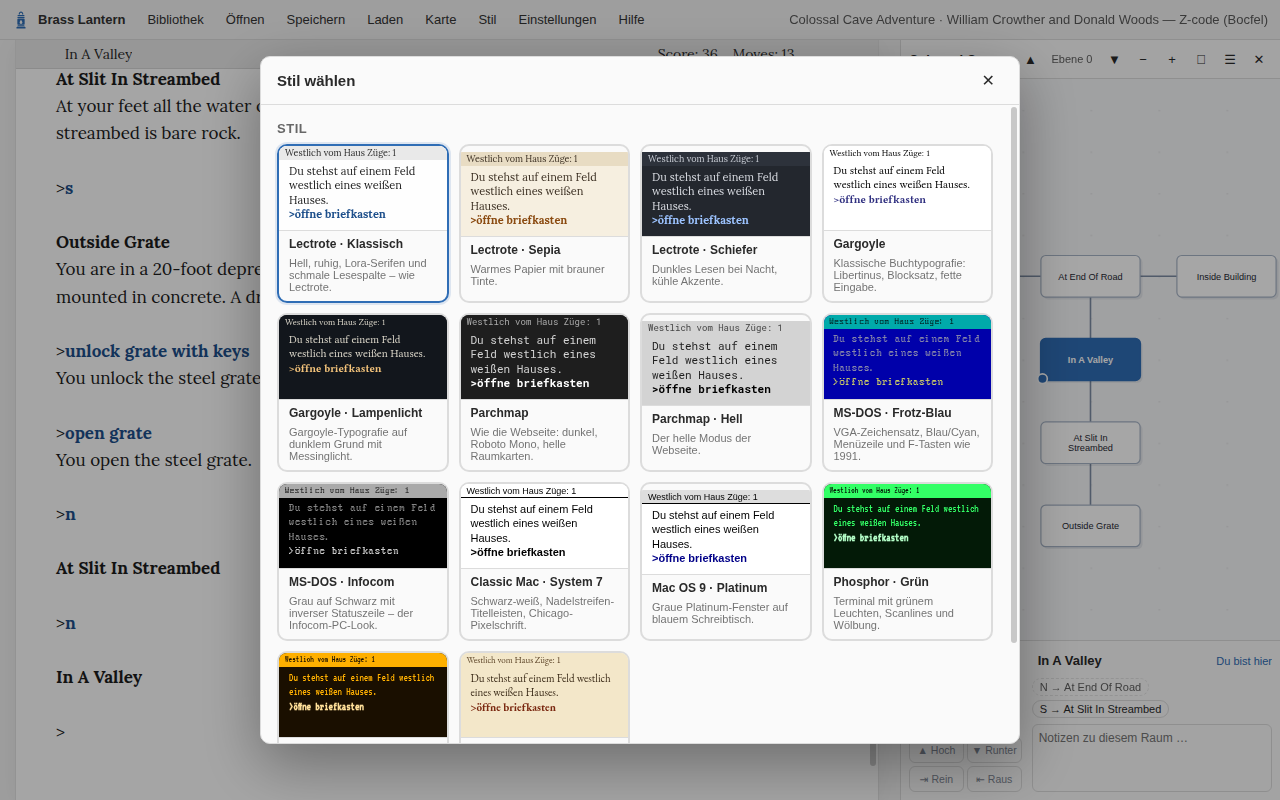
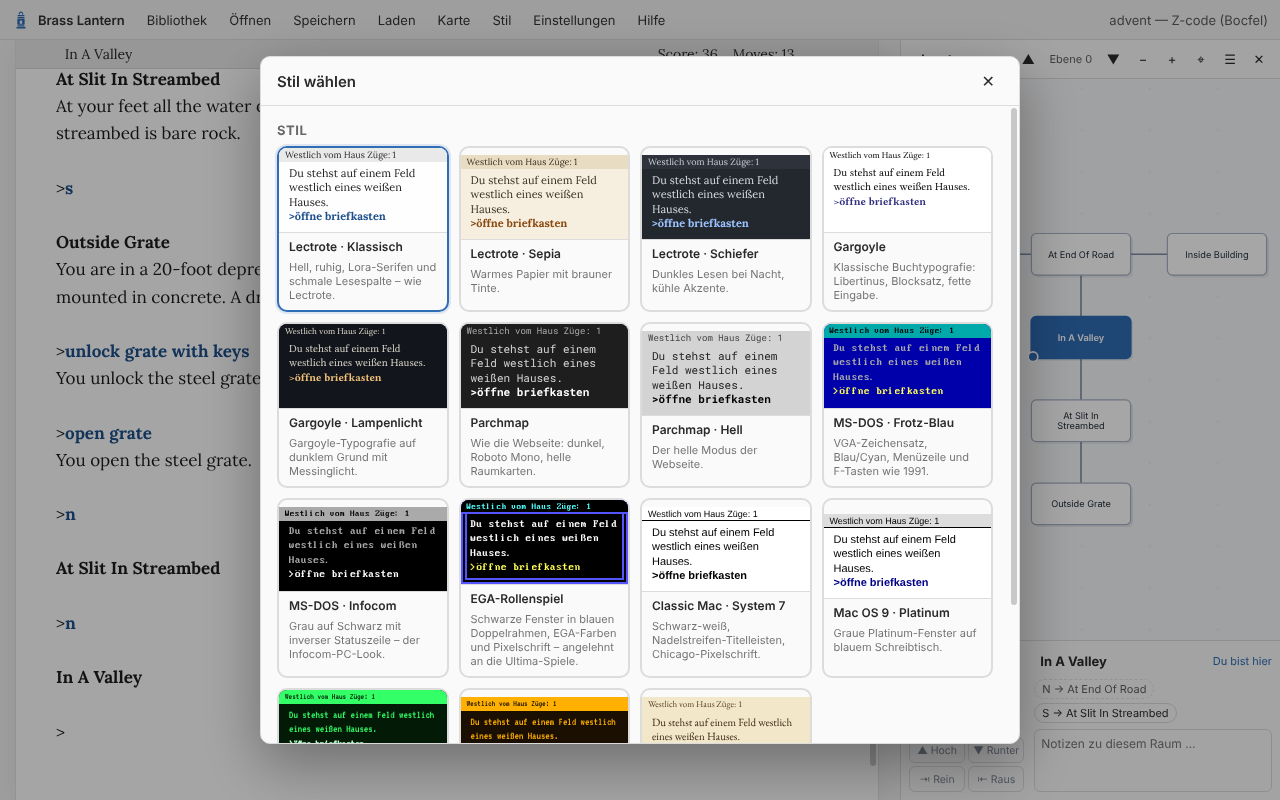
Add the EGA role-playing style, inspired by the Ultima games (1.3.0)
Black windows in blue double frames with corner rivets, title plates on
the frame, a framed map side window, EGA palette and VGA pixel font.

Claude-Session: https://claude.ai/code/session_01AJUxLsrNY1J7Soayh9AwsN

diff --git a/src/renderer/css/themes.css b/src/renderer/css/themes.css
@@ -969,3 +969,241 @@ body[data-theme='parchment'] .win-grid { font-style: italic; }
 body[data-theme='parchment'] .Style_header { font-size: 1.5em; font-variant: small-caps; letter-spacing: .03em; }
 body[data-theme='parchment'] .Style_subheader { font-variant: small-caps; letter-spacing: .04em; font-size: 1.08em; }
 body[data-theme='parchment'] .room-box { rx: 3px; }
+
+/* ---------- EGA-Rollenspiel (inspired by the 80s Ultima games) ----------
+   Black windows framed by blue double lines with round rivets at the
+   corners, title plates sitting on the frame, 16-colour EGA palette and
+   the VGA pixel font. */
+body[data-theme='ega-rpg'] {
+  --ega-frame: #5555ff;
+  --ega-frame-dark: #0000aa;
+  --bg: #000000;
+  --fg: #ffffff;
+  --muted: #aaaaaa;
+  --accent: #ffff55;
+  --accent-fg: #000;
+  --accent-soft: rgba(85, 85, 255, .25);
+  --input-fg: #ffff55;
+  --input-weight: normal;
+  --link: #55ffff;
+  --header-fg: #ffff55;
+  --subheader-fg: #55ffff;
+  --alert-fg: #ff5555;
+  --note-fg: #55ff55;
+  --status-bg: #000000;
+  --status-fg: #55ffff;
+  --status-border: 2px solid var(--ega-frame);
+  --status-rev-bg: #0000aa;
+  --status-rev-fg: #ffffff;
+  --chrome-bg: #000000;
+  --chrome-fg: #aaaaaa;
+  --chrome-border: #5555ff;
+  --chrome-border-w: 2px;
+  --chrome-hover: #0000aa;
+  --desk-bg: #000000;
+  --panel-bg: #000000;
+  --panel-fg: #aaaaaa;
+  --panel-border-w: 0;
+  --map-bg: #000000;
+  --map-grid: rgba(85, 85, 255, .35);
+  --map-line: #aaaaaa;
+  --map-muted: #55ffff;
+  --room-bg: #000000;
+  --room-fg: #ffffff;
+  --room-border: #5555ff;
+  --room-shadow: #0000aa;
+  --room-here-bg: #aa0000;
+  --room-here-fg: #ffff55;
+  --room-here-border: #ffff55;
+  --scroll-thumb: #5555ff;
+  --scroll-track: #000;
+  --scroll-w: 8px;
+  --scroll-radius: 0;
+  --scroll-thumb-border: 0;
+  --input-bg: #000;
+  --caret: #ffff55;
+  --selection: #0000aa;
+  --overlay-bg: rgba(0, 0, 0, .55);
+  --dlg-bg: #000;
+  --dlg-fg: #aaaaaa;
+  --dlg-border: 0;
+  --dlg-shadow: none;
+  --card-bg: #000;
+  --card-fg: #aaaaaa;
+  --hero-bg: #000;
+  --hero-fg: #ffffff;
+  --sugg-bg: #000;
+  --sugg-fg: #55ffff;
+  --toast-bg: #0000aa;
+  --toast-fg: #ffff55;
+  --btn-bg: #000;
+  --btn-fg: #ffffff;
+  --splitter-bg: #000;
+  --font-body: 'Lantern VGA', monospace;
+  --font-mono: 'Lantern VGA', monospace;
+  --font-ui: 'Lantern VGA', monospace;
+  --font-title: 'Lantern VGA', monospace;
+  --title-weight: normal;
+  --font-size: 16px;
+  --status-size: 16px;
+  --ui-size: 16px;
+  --line-height: 1.25;
+  --grid-line-height: 1.25;
+  --buf-pad-x: 18px;
+  --buf-pad-y: 12px;
+  --grid-pad-x: 18px;
+  --grid-pad-y: 4px;
+  --btn-radius: 0;
+  --dlg-radius: 0;
+  --room-radius: 0;
+  --cover-radius: 0;
+  --topbar-h: 28px;
+  --map-line-w: 2;
+  --room-font-size: 16px;
+  --h3-transform: none;
+  --play-pad: 14px;
+  /* double blue line: 2px line, 2px black gap, 2px line */
+  --ega-border: inset 0 0 0 2px var(--ega-frame), inset 0 0 0 4px #000, inset 0 0 0 6px var(--ega-frame);
+  -webkit-font-smoothing: none;
+  font-smooth: never;
+  background: #000;
+}
+/* round rivets on the four corners of every framed window */
+body[data-theme='ega-rpg'] {
+  --ega-rivets:
+    radial-gradient(circle at 3px 3px, #ffffff 0 1px, #aaaaff 1px 2px, var(--ega-frame) 2px 4px, #000 4px 5px, transparent 5px) left top / 14px 14px no-repeat,
+    radial-gradient(circle at 11px 3px, #ffffff 0 1px, #aaaaff 1px 2px, var(--ega-frame) 2px 4px, #000 4px 5px, transparent 5px) right top / 14px 14px no-repeat,
+    radial-gradient(circle at 3px 11px, #ffffff 0 1px, #aaaaff 1px 2px, var(--ega-frame) 2px 4px, #000 4px 5px, transparent 5px) left bottom / 14px 14px no-repeat,
+    radial-gradient(circle at 11px 11px, #ffffff 0 1px, #aaaaff 1px 2px, var(--ega-frame) 2px 4px, #000 4px 5px, transparent 5px) right bottom / 14px 14px no-repeat;
+}
+
+/* top bar: command line like the RPG's command list */
+body[data-theme='ega-rpg'] #topbar { border-bottom: 0; box-shadow: 0 2px 0 var(--ega-frame), 0 4px 0 #000, 0 6px 0 var(--ega-frame); margin-bottom: 6px; padding: 0 14px; gap: 20px; }
+body[data-theme='ega-rpg'] .brand { font-weight: normal; color: #ffff55; }
+body[data-theme='ega-rpg'] .brand-icon { background: #ffff55; width: 16px; height: 16px; image-rendering: pixelated; }
+body[data-theme='ega-rpg'] .topnav { gap: 6px; }
+body[data-theme='ega-rpg'] .topnav button { padding: 0 6px; height: 20px; line-height: 20px; color: #aaaaaa; }
+body[data-theme='ega-rpg'] .topnav button u { color: #ffffff; }
+body[data-theme='ega-rpg'] .topnav button:hover { background: #0000aa; color: #ffffff; }
+body[data-theme='ega-rpg'] .topnav button:hover u { color: #ffff55; }
+body[data-theme='ega-rpg'] .topbar-game { color: #55ffff; opacity: 1; }
+
+/* the story window */
+body[data-theme='ega-rpg'] #play-frame { box-shadow: none; padding: 6px; position: relative; }
+body[data-theme='ega-rpg'] #play-frame::after {
+  content: '';
+  position: absolute; inset: 0;
+  pointer-events: none;
+  box-shadow: var(--ega-border);
+  background: var(--ega-rivets);
+  z-index: 4;
+}
+body[data-theme='ega-rpg'] .frame-title {
+  display: flex;
+  justify-content: center;
+  position: absolute; left: 0; right: 0; top: -2px;
+  height: 0;
+  z-index: 5;
+  pointer-events: none;
+}
+body[data-theme='ega-rpg'] .frame-label {
+  background: #000;
+  color: #ffff55;
+  font-family: var(--font-ui);
+  font-size: 16px;
+  line-height: 16px;
+  height: 16px;
+  padding: 0 8px;
+  transform: translateY(-5px);
+  white-space: nowrap;
+  max-width: 70%;
+  overflow: hidden;
+  text-overflow: ellipsis;
+}
+body[data-theme='ega-rpg'] .frame-label:not(:empty)::before { content: '\25C4 '; color: var(--ega-frame); }
+body[data-theme='ega-rpg'] .frame-label:not(:empty)::after { content: ' \25BA'; color: var(--ega-frame); }
+body[data-theme='ega-rpg'] .frame-close { display: none; }
+
+/* text styles in EGA colours, no italics or bold in a pixel font */
+body[data-theme='ega-rpg'] .Style_header, body[data-theme='ega-rpg'] .Style_subheader, body[data-theme='ega-rpg'] .Style_alert { font-weight: normal; font-size: 1em; }
+body[data-theme='ega-rpg'] .Style_header { color: #ffff55; }
+body[data-theme='ega-rpg'] .Style_subheader { color: #55ffff; }
+body[data-theme='ega-rpg'] .Style_emphasized { font-style: normal; color: #55ffff; }
+body[data-theme='ega-rpg'] .Style_note { font-style: normal; color: #55ff55; }
+body[data-theme='ega-rpg'] .Style_input { color: #ffff55; }
+body[data-theme='ega-rpg'] .char-hint { height: 3px; width: 8px; vertical-align: baseline; opacity: 1; }
+body[data-theme='ega-rpg'] .line-input { caret-shape: block; }
+body[data-theme='ega-rpg'] .win-grid { box-shadow: 0 2px 0 #000, 0 4px 0 var(--ega-frame); }
+body[data-theme='ega-rpg'] #suggest .sugg { border-radius: 0; border-color: var(--ega-frame); }
+body[data-theme='ega-rpg'] #suggest .sugg.first { border-color: #ffff55; color: #ffff55; }
+
+/* map: a framed side window like the party/status panel */
+body[data-theme='ega-rpg'] #mappanel {
+  border: 0;
+  margin: 14px 14px 14px 0;
+  padding: 10px;
+  box-shadow: var(--ega-border);
+  background: var(--ega-rivets), #000;
+  min-width: 260px;
+  height: auto;
+  min-height: 0;
+  overflow: hidden;
+}
+body.map-left[data-theme='ega-rpg'] #mappanel { margin: 14px 0 14px 14px; }
+body[data-theme='ega-rpg'] #splitter { width: 8px; }
+body[data-theme='ega-rpg'] .map-toolbar { background: transparent; border-bottom: 2px solid var(--ega-frame); }
+body[data-theme='ega-rpg'] .map-title { font-weight: normal; color: #ffff55; }
+body[data-theme='ega-rpg'] .map-btn { border-radius: 0; }
+body[data-theme='ega-rpg'] .map-btn:hover, body[data-theme='ega-rpg'] .compass-grid button:hover, body[data-theme='ega-rpg'] .compass-extra button:hover { background: #0000aa; color: #fff; border-color: var(--ega-frame); }
+body[data-theme='ega-rpg'] .map-bottom { border-top: 2px solid var(--ega-frame); }
+body[data-theme='ega-rpg'] .compass-grid button, body[data-theme='ega-rpg'] .compass-extra button { border-radius: 0; font-size: 16px; border-color: #0000aa; }
+body[data-theme='ega-rpg'] .compass-grid button.known, body[data-theme='ega-rpg'] .compass-extra button.known { background: #0000aa; color: #ffffff; font-weight: normal; border-color: var(--ega-frame); }
+body[data-theme='ega-rpg'] .room-name { font-size: 16px; }
+body[data-theme='ega-rpg'] .room-box { stroke-width: 2; }
+body[data-theme='ega-rpg'] .map-room.here .room-box { stroke-width: 2; }
+body[data-theme='ega-rpg'] .map-edge-label, body[data-theme='ega-rpg'] .map-stub-label, body[data-theme='ega-rpg'] .room-marks { font-size: 16px; }
+
+/* dialogs, menus and the game-over box get the same frame and a title plate */
+body[data-theme='ega-rpg'] #dialog, body[data-theme='ega-rpg'] .map-menu, body[data-theme='ega-rpg'] .map-list, body[data-theme='ega-rpg'] #gameover {
+  border: 0;
+  border-radius: 0;
+  box-shadow: var(--ega-border);
+  background: var(--ega-rivets), #000;
+  padding: 8px;
+  font-size: 16px;
+}
+body[data-theme='ega-rpg'] .dlg-head { border-bottom: 2px solid var(--ega-frame); justify-content: center; position: relative; }
+body[data-theme='ega-rpg'] .dlg-head h2 { flex: none; font-size: 16px; color: #ffff55; }
+body[data-theme='ega-rpg'] .dlg-head h2::before { content: '\25C4 '; color: var(--ega-frame); }
+body[data-theme='ega-rpg'] .dlg-head h2::after { content: ' \25BA'; color: var(--ega-frame); }
+body[data-theme='ega-rpg'] .dlg-close { position: absolute; right: 12px; color: #aaaaaa; }
+body[data-theme='ega-rpg'] .dlg-body { font-size: 16px; }
+body[data-theme='ega-rpg'] .dlg-body h3 { font-size: 16px; color: #55ffff; opacity: 1; }
+body[data-theme='ega-rpg'] .help-table td { border-bottom-color: #0000aa; }
+body[data-theme='ega-rpg'] .help-table td:first-child { font-size: 16px; color: #ffffff; }
+body[data-theme='ega-rpg'] .btn { border: 2px solid var(--ega-frame); border-radius: 0; background: #000; color: #ffffff; font-size: 16px; padding: 0 10px; height: 24px; }
+body[data-theme='ega-rpg'] .btn:hover { background: #0000aa; }
+body[data-theme='ega-rpg'] .btn.primary { border-color: #ffff55; color: #ffff55; }
+body[data-theme='ega-rpg'] .btn.primary:hover { background: #aa5500; color: #ffffff; }
+body[data-theme='ega-rpg'] .theme-card { border-color: #0000aa; border-radius: 0; display: flex; flex-direction: column; justify-content: flex-start; }
+body[data-theme='ega-rpg'] .theme-card.active { border-color: #ffff55; box-shadow: none; }
+body[data-theme='ega-rpg'] .theme-name { font-weight: normal; font-size: 16px; color: #ffffff; border-top-color: #0000aa; }
+body[data-theme='ega-rpg'] .theme-desc { font-size: 14px; opacity: .8; }
+body[data-theme='ega-rpg'] .form-row select, body[data-theme='ega-rpg'] .form-row input[type=number] { background: #000; color: #fff; border: 2px solid var(--ega-frame); border-radius: 0; font-size: 16px; }
+body[data-theme='ega-rpg'] .form-hint { font-size: 14px; }
+body[data-theme='ega-rpg'] #toast { border-radius: 0; box-shadow: var(--ega-border); padding: 10px 16px; }
+
+/* library */
+body[data-theme='ega-rpg'] .lib-toolbar { background: #000; color: #aaaaaa; border-bottom: 2px solid var(--ega-frame); padding: 8px 14px; font-size: 16px; }
+body[data-theme='ega-rpg'] .lib-heading { font-size: 16px; font-weight: normal; color: #ffff55; }
+body[data-theme='ega-rpg'] .lib-search, body[data-theme='ega-rpg'] .lib-sort { background: #000; color: #fff; border: 2px solid var(--ega-frame); border-radius: 0; font-size: 16px; }
+body[data-theme='ega-rpg'] .lib-row, body[data-theme='ega-rpg'] .lib-detail, body[data-theme='ega-rpg'] .lib-welcome { font-size: 16px; }
+body[data-theme='ega-rpg'] .lib-row { border-radius: 0; }
+body[data-theme='ega-rpg'] .lib-row.selected, body[data-theme='ega-rpg'] .lib-list:focus .lib-row.selected { background: #0000aa; color: #ffffff; border-color: var(--ega-frame); }
+body[data-theme='ega-rpg'] .lib-row-title { font-size: 16px; font-weight: normal; color: #ffffff; }
+body[data-theme='ega-rpg'] .lib-row-sub, body[data-theme='ega-rpg'] .lib-row-side, body[data-theme='ega-rpg'] .lib-facts, body[data-theme='ega-rpg'] .lib-detail-foot, body[data-theme='ega-rpg'] .lib-desc, body[data-theme='ega-rpg'] .lib-tag, body[data-theme='ega-rpg'] .lib-stars, body[data-theme='ega-rpg'] .lib-link, body[data-theme='ega-rpg'] .lib-path { font-size: 16px; }
+body[data-theme='ega-rpg'] .lib-thumb, body[data-theme='ega-rpg'] .lib-cover-big { border-radius: 0; box-shadow: 0 0 0 2px var(--ega-frame); image-rendering: pixelated; }
+body[data-theme='ega-rpg'] .lib-detail { border: 0; margin: 10px; box-shadow: var(--ega-border); background: var(--ega-rivets), #000; padding: 22px; }
+body[data-theme='ega-rpg'] .lib-detail-title { font-size: 16px; font-weight: normal; color: #ffff55; }
+body[data-theme='ega-rpg'] .lib-welcome { border: 0; border-radius: 0; box-shadow: var(--ega-border); background: var(--ega-rivets), #000; padding: 30px; }
+body[data-theme='ega-rpg'] .lib-badge, body[data-theme='ega-rpg'] .lib-tag { border-radius: 0; }

diff --git a/src/renderer/js/themes.js b/src/renderer/js/themes.js
@@ -10,6 +10,7 @@ export const THEMES = [
   { id: 'parchmap-light', name: 'Parchmap · Hell', desc: 'Der helle Modus der Webseite.', p: { bg: '#d3d3d3', fg: '#1e1e1e', st: '#d3d3d3', stfg: '#444', in: '#000', font: "'Roboto Mono', monospace" } },
   { id: 'dos-blue', name: 'MS-DOS · Frotz-Blau', desc: 'VGA-Zeichensatz, Blau/Cyan, Menüzeile und F-Tasten wie 1991.', p: { bg: '#0000aa', fg: '#aaaaaa', st: '#00aaaa', stfg: '#000', in: '#ffff55', font: "'Lantern VGA', monospace" } },
   { id: 'dos-black', name: 'MS-DOS · Infocom', desc: 'Grau auf Schwarz mit inverser Statuszeile – der Infocom-PC-Look.', p: { bg: '#000', fg: '#aaaaaa', st: '#aaaaaa', stfg: '#000', in: '#ffffff', font: "'Lantern VGA', monospace" } },
+  { id: 'ega-rpg', name: 'EGA-Rollenspiel', desc: 'Schwarze Fenster in blauen Doppelrahmen, EGA-Farben und Pixelschrift – angelehnt an die Ultima-Spiele.', p: { bg: '#000', fg: '#ffffff', st: '#000', stfg: '#55ffff', in: '#ffff55', font: "'Lantern VGA', monospace", ega: true } },
   { id: 'mac-classic', name: 'Classic Mac · System 7', desc: 'Schwarz-weiß, Nadelstreifen-Titelleisten, Chicago-Pixelschrift.', p: { bg: '#ffffff', fg: '#000', st: '#ffffff', stfg: '#000', in: '#000', font: "'Geneva', 'Verdana', sans-serif", frame: true } },
   { id: 'mac-platinum', name: 'Mac OS 9 · Platinum', desc: 'Graue Platinum-Fenster auf blauem Schreibtisch.', p: { bg: '#ffffff', fg: '#000', st: '#dddddd', stfg: '#000', in: '#000088', font: "'Geneva', 'Verdana', sans-serif", frame: true } },
   { id: 'crt-green', name: 'Phosphor · Grün', desc: 'Terminal mit grünem Leuchten, Scanlines und Wölbung.', p: { bg: '#031a07', fg: '#33ff66', st: '#33ff66', stfg: '#031a07', in: '#b4ffc8', font: "'VT323', monospace" } },

diff --git a/src/renderer/js/app.js b/src/renderer/js/app.js
@@ -608,6 +608,7 @@ function themePreview(t) {
   st.style.color = t.p.stfg
   st.style.fontFamily = t.p.font
   if (t.p.frame) st.style.borderBottom = '1px solid #000'
+  if (t.p.ega) { prev.style.boxShadow = 'inset 0 0 0 2px #5555ff, inset 0 0 0 4px #000, inset 0 0 0 6px #5555ff'; st.style.borderBottom = '2px solid #5555ff' }
   const txt = h('div', 'tp-text')
   txt.append(T('Du stehst auf einem Feld westlich eines weißen Hauses.'), h('br'))
   const inp = h('span', 'tp-input', T('>öffne briefkasten'))

diff --git a/README.md b/README.md
@@ -14,7 +14,7 @@ An interactive fiction interpreter for **Windows, macOS and Linux** with an **au
 - **Library:** pick one or more game folders; Brass Lantern lists every story with cover art, author, year, format and rating, and shows description, genre, play time and tags in a side panel. Data comes from the [Interactive Fiction Database](https://ifdb.org) (matched by IFID, falling back to the title; you can choose the right entry by hand). Sync can be turned off.
 - **Local files:** open any story via dialog, drag & drop, “Open with …” or the command line.
 - **Comfort:** command history, Tab completion from the game text, `/goto room`, `/note text`, save/restore buttons in the top bar, transcripts.
-- **14 styles:** Lectrote (Classic, Sepia, Slate), Gargoyle (light, lamplight), Parchmap (dark, light), MS-DOS (Frotz blue, Infocom black – VGA font and F-key bar), Classic Mac System 7, Mac OS 9 Platinum, green and amber phosphor (CRT), parchment. Typeface, size, line spacing, text width and a CRT effect can be set for any style.
+- **15 styles:** Lectrote (Classic, Sepia, Slate), Gargoyle (light, lamplight), Parchmap (dark, light), MS-DOS (Frotz blue, Infocom black – VGA font and F-key bar), EGA role-playing (blue double frames like the Ultima games), Classic Mac System 7, Mac OS 9 Platinum, green and amber phosphor (CRT), parchment. Typeface, size, line spacing, text width and a CRT effect can be set for any style.
 - **Interface language:** English (default) or German.
 
 | | |
@@ -22,7 +22,7 @@ An interactive fiction interpreter for **Windows, macOS and Linux** with an **au
 | ![Library](docs/screenshots/en_1_library.png) | ![MS-DOS style](docs/screenshots/en_3_dos.png) |
 | ![Classic Mac style](docs/screenshots/en_4_mac.png) | ![Green phosphor style](docs/screenshots/en_5_crt.png) |
 | ![Gargoyle lamplight](docs/screenshots/en_6_gargoyle.png) | ![Parchmap style](docs/screenshots/en_7_parchmap.png) |
-| ![All styles](docs/screenshots/en_8_styles.png) | |
+| ![EGA role-playing style](docs/screenshots/en_9_ega.png) | ![All styles](docs/screenshots/en_8_styles.png) |
 
 ## Download & install
 

diff --git a/README.de.md b/README.de.md
@@ -20,14 +20,14 @@ Ein Interpreter für Interactive Fiction für Windows, macOS und Linux, mit auto
   - Die Karte lässt sich ausblenden (Strg/⌘+M, F2, `/map`).
 - **Sprache:** Englisch (Standard) oder Deutsch, umschaltbar in den Einstellungen.
 - **Komfort:** Befehlsverlauf (↑/↓), Autovervollständigung aus dem Spieltext (Tab), Befehle wie `/goto Küche` und `/note …`, Speichern und Laden mit normalem Dateidialog, Transkript-Export.
-- **14 Stile:** Lectrote (Klassisch, Sepia, Schiefer), Gargoyle (hell, Lampenlicht), Parchmap (dunkel, hell), MS-DOS (Frotz-Blau, Infocom-Schwarz, mit VGA-Pixelschrift und F-Tastenleiste), Classic Mac System 7 (Nadelstreifen, Chicago-artige Pixelschrift), Mac OS 9 Platinum, Phosphor-Grün und -Bernstein (CRT), Pergament. Dazu lassen sich Schriftart, Schriftgröße, Zeilenabstand, Textbreite und ein CRT-Effekt für jeden Stil einstellen.
+- **15 Stile:** Lectrote (Klassisch, Sepia, Schiefer), Gargoyle (hell, Lampenlicht), Parchmap (dunkel, hell), MS-DOS (Frotz-Blau, Infocom-Schwarz, mit VGA-Pixelschrift und F-Tastenleiste), EGA-Rollenspiel (blaue Doppelrahmen wie in den Ultima-Spielen), Classic Mac System 7 (Nadelstreifen, Chicago-artige Pixelschrift), Mac OS 9 Platinum, Phosphor-Grün und -Bernstein (CRT), Pergament. Dazu lassen sich Schriftart, Schriftgröße, Zeilenabstand, Textbreite und ein CRT-Effekt für jeden Stil einstellen.
 
 | | |
 |---|---|
 | ![Bibliothek](docs/screenshots/de_1_library.png) | ![MS-DOS-Stil](docs/screenshots/de_3_dos.png) |
 | ![Classic-Mac-Stil](docs/screenshots/de_4_mac.png) | ![Phosphor-Grün](docs/screenshots/de_5_crt.png) |
 | ![Gargoyle · Lampenlicht](docs/screenshots/de_6_gargoyle.png) | ![Parchmap-Stil](docs/screenshots/de_7_parchmap.png) |
-| ![Alle Stile](docs/screenshots/de_8_styles.png) | |
+| ![EGA-Rollenspiel-Stil](docs/screenshots/de_9_ega.png) | ![Alle Stile](docs/screenshots/de_8_styles.png) |
 
 ## Installation
 

diff --git a/docs/release-notes/v1.3.0.md b/docs/release-notes/v1.3.0.md
@@ -1,0 +1,22 @@
+## Brass Lantern 1.3.0 – EGA-Rollenspiel
+
+**Deutsch**
+- **Neuer Stil „EGA-Rollenspiel“:** angelehnt an die Ultima-Spiele der 80er. Schwarze Fenster in blauen Doppelrahmen mit Nieten an den Ecken, der Spieltitel sitzt als Plakette auf dem Rahmen, die Karte steht in einem eigenen gerahmten Seitenfenster. Text in der 16-Farben-EGA-Palette (Eingaben gelb, Raumnamen und Hervorhebungen cyan, aktueller Raum rot) und in der VGA-Pixelschrift. Auch Bibliothek, Dialoge und Stil-Auswahl tragen den Rahmen.
+- Auswahl über **Stil** in der Menüleiste.
+
+**English**
+- **New “EGA Role-Playing” style:** inspired by the Ultima games of the 80s. Black windows in blue double frames with rivets at the corners, the game title sits as a plate on the frame, and the map lives in its own framed side window. Text uses the 16-colour EGA palette (input yellow, room names and emphasis cyan, current room red) and the VGA pixel font. The library, dialogs and the style picker get the frame too.
+- Pick it via **Style** in the menu bar.
+
+| System | Datei / File |
+|---|---|
+| Windows | `BrassLantern-Setup-1.3.0.exe` · `BrassLantern-1.3.0-win-x64-portable.zip` |
+| macOS | `BrassLantern-1.3.0-mac-arm64.zip` (Apple Silicon) · `BrassLantern-1.3.0-mac-intel.zip` |
+| Linux | `BrassLantern-1.3.0-linux-x64.AppImage` · `brass-lantern_1.3.0_amd64.deb` |
+
+Windows SmartScreen: „Weitere Informationen“ → „Trotzdem ausführen“ / “More info” → “Run anyway”. macOS: `xattr -cr "/Applications/Brass Lantern.app"` einmal ausführen / run once.
+
+<p>
+<img src="https://raw.githubusercontent.com/Schnubbirunkel/brass-lantern/main/docs/screenshots/de_9_ega.png" width="420">
+<img src="https://raw.githubusercontent.com/Schnubbirunkel/brass-lantern/main/docs/screenshots/de_8_styles.png" width="420">
+</p>
